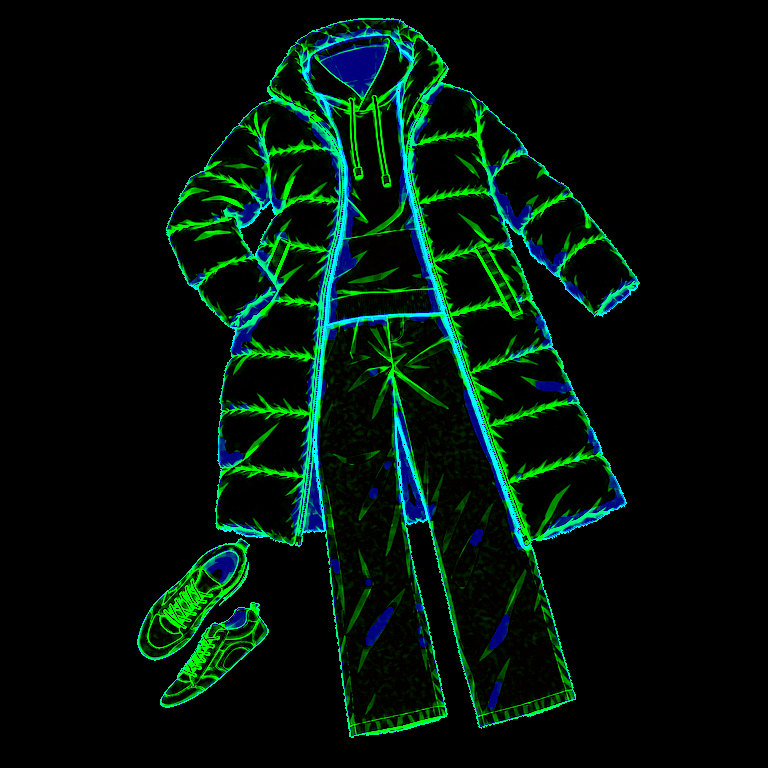
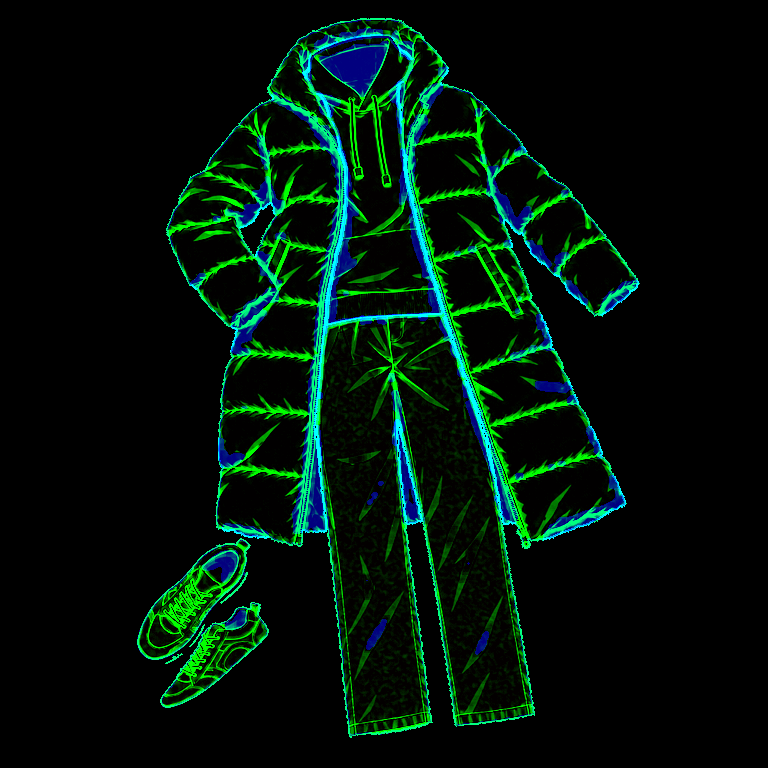
겨울 11종: 2번 바지 일자 교체, 검수 증거 링크(#188), 고정값 갱신
Claude-Session: https://claude.ai/code/session_01HdHxhwu3VCkntpgz9HCeGf

diff --git a/backend/tests/test_fashion_pending_reviews.py b/backend/tests/test_fashion_pending_reviews.py
@@ -81,16 +81,15 @@ APPROVED = {  # base-colour values the owner re-approved on #188 (2026-10-19)
 
 
 # #188 winter set, owner-approved 2026-10-20 with the independent-review step set.
-# The evidence field is still the placeholder written with the records (see report on #188);
-# it is pinned so that replacing it with the real approval link is a deliberate test change.
-WINTER_EVIDENCE = "PENDING_188_COMMENT"
+# Evidence: the #188 comment recording the owner's chat approval and the independent review.
+WINTER_EVIDENCE = "https://github.com/ryanchoi13/saju-app/issues/188#issuecomment-6287640226"
 WINTER_STEPS = ["independent_style_review", "claude_consistency_check", "owner_final"]
 WINTER_APPROVED = {  # drawing -> (candidate, drawing_version, scope_version, temp_range, rain/snow)
-    "all-066": ("pending-female-winter-casual-shearling", "0da5d658911bc4d3", "6a1aae5b548b8a98",
+    "all-066": ("pending-female-winter-casual-shearling", "0da5d658911bc4d3", "b5c3dfd3394dbae7",
                 {"min": "open", "max_exclusive": 5}, "unsuitable"),
-    "all-067": ("pending-male-winter-casual-longpadding", "a78f6e75be9ab87a", "7c35330a1a6a73cb",
+    "all-067": ("pending-male-winter-casual-longpadding", "0409ce025ab18202", "7c35330a1a6a73cb",
                 {"min": "open", "max_exclusive": 0}, "suitable"),
-    "all-068": ("pending-male-winter-casual-shearling", "420d52c006a5bad2", "940c63ffcbc7f80f",
+    "all-068": ("pending-male-winter-casual-shearling", "420d52c006a5bad2", "26cc3b75fbe74d89",
                 {"min": "open", "max_exclusive": 5}, "unsuitable"),
     "all-069": ("pending-male-winter-business_casual-turtleneck", "8c152ea5af752ef8", "dbdc8f198259d9d9",
                 {"min": "open", "max_exclusive": 9}, "suitable"),
